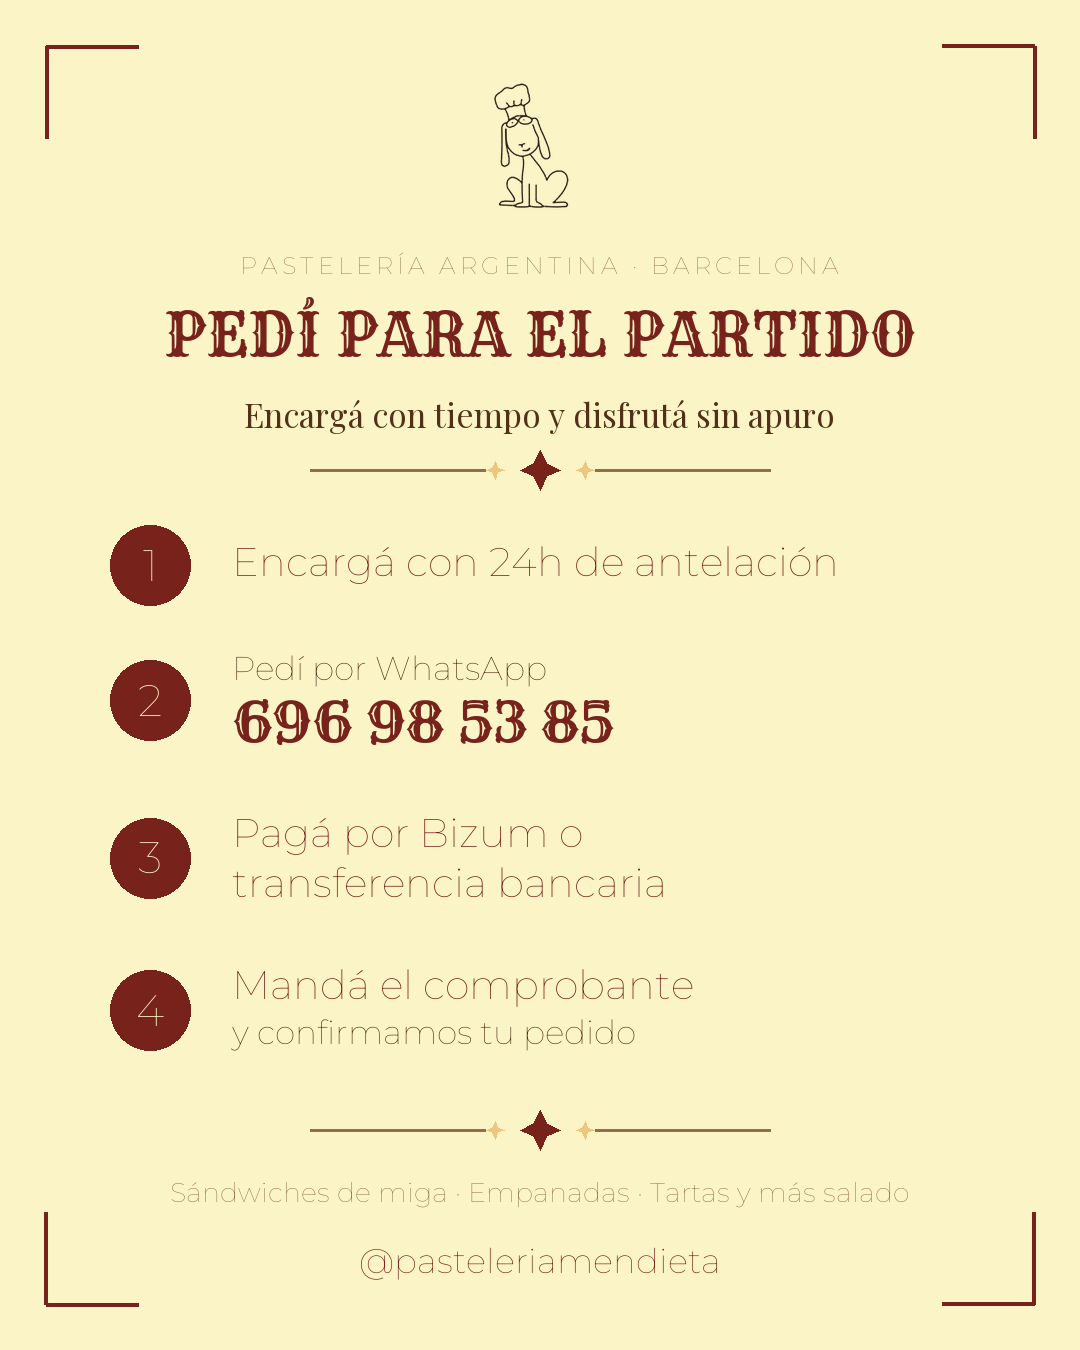
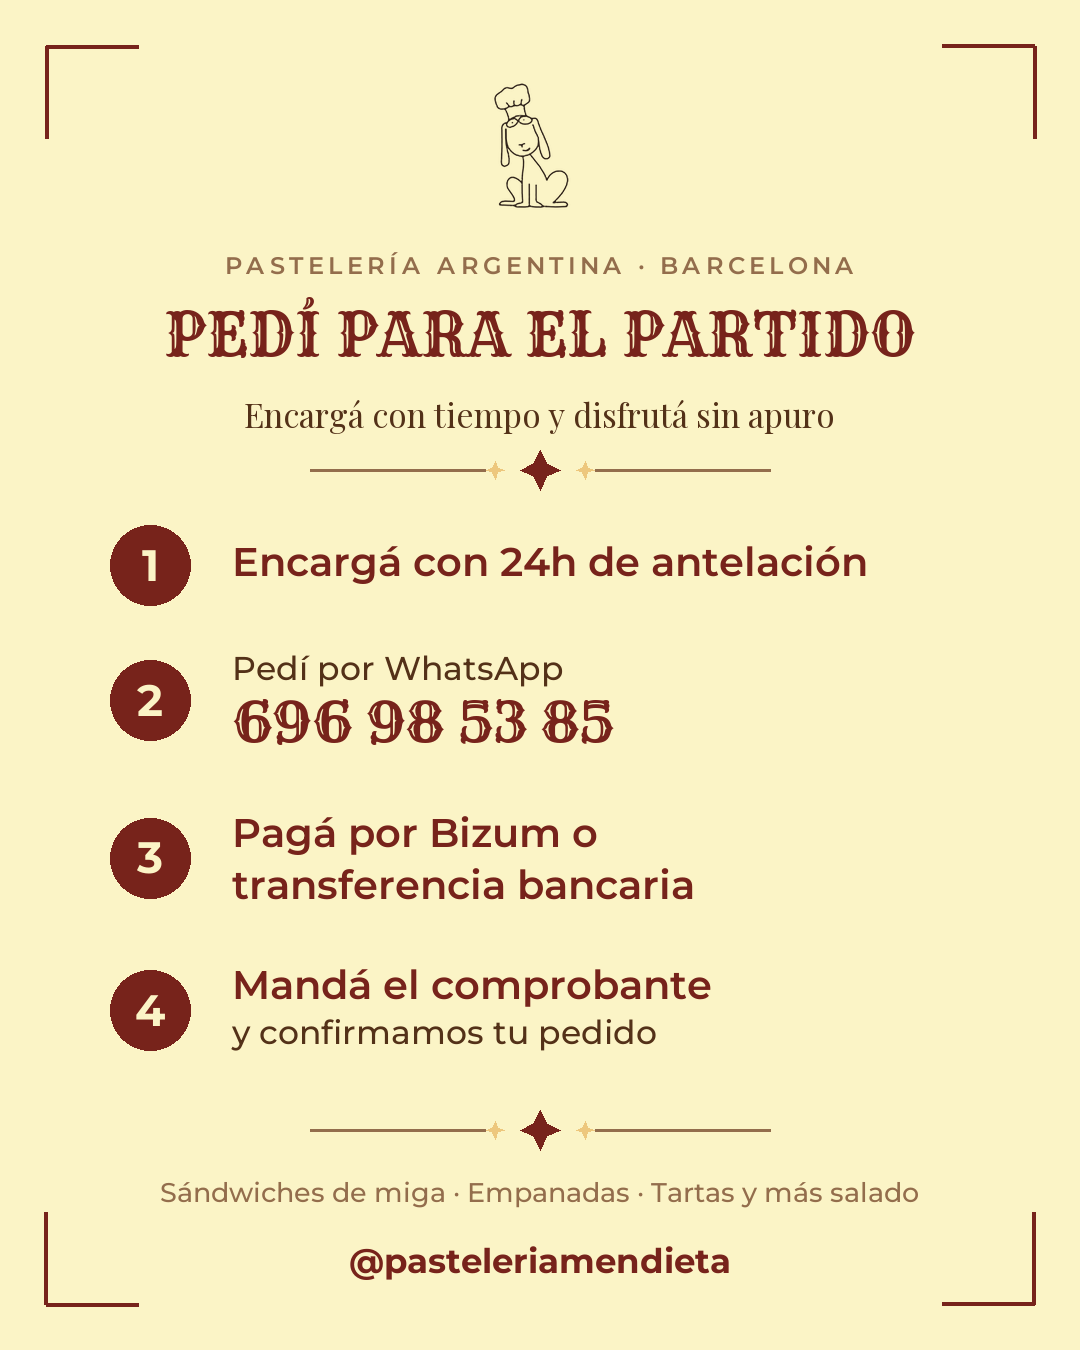
Fix tipografia fina + sube calidad del reel y la foto
CAUSA RAIZ: Montserrat.ttf es fuente VARIABLE y por defecto cargaba en
Thin (100) -> todo el texto salia finisimo e ilegible sobre el video.

FIX:
- helper mont(size, weight) que fuerza el peso real (Bold 700 / ExtraBold
  800) via set_variation_by_axes. Aplicado en reel y en la foto.
- Contorno (stroke) en todo el texto del reel + sombra -> legible sobre
  cualquier foto, no depende del fondo.
- Panel del card mas oscuro (alpha 150->228) para contraste desde el inicio.
- Encode del reel a crf 15 + aq-mode=3 (antes 18) -> mas calidad/menos banding.
- Foto de detalles: pesos correctos (semibold/bold) en pasos, badges y footer.

diff --git a/scripts/make_recap_final.py b/scripts/make_recap_final.py
@@ -45,13 +45,19 @@ def font(p, s):
     return ImageFont.truetype(p, s)
 
 
-def cline(d, y, t, f, fill, sh=True):
-    b = d.textbbox((0, 0), t, font=f)
+def mont(s, w=700):
+    """Montserrat es variable (default Thin 100). Forzamos peso real."""
+    f = ImageFont.truetype(F_MONT, s)
+    f.set_variation_by_axes([w])
+    return f
+
+
+def cline(d, y, t, f, fill, stroke=5, scol=(16, 9, 5)):
+    b = d.textbbox((0, 0), t, font=f, stroke_width=stroke)
     x = (W - (b[2] - b[0])) // 2 - b[0]
-    if sh:
-        for off in ((3, 4), (2, 2)):
-            d.text((x + off[0], y + off[1]), t, font=f, fill=(0, 0, 0, 230))
-    d.text((x, y), t, font=f, fill=fill)
+    # sombra suave + contorno -> legible sobre cualquier foto
+    d.text((x + 2, y + 4), t, font=f, fill=(0, 0, 0, 150), stroke_width=stroke, stroke_fill=(0, 0, 0, 150))
+    d.text((x, y), t, font=f, fill=fill, stroke_width=stroke, stroke_fill=scol)
 
 
 def render_sprite(draw_fn):
@@ -66,38 +72,38 @@ def render_sprite(draw_fn):
 
 
 def block_header(d):
-    cline(d, 372, "·  MENDIETA  ·", font(F_MONT, 34), MOSTAZA)
-    cline(d, 432, "PEDÍ PARA", font(F_RYE, 82), CREMA)
-    cline(d, 540, "EL PARTIDO", font(F_RYE, 82), CREMA)
+    cline(d, 368, "·  MENDIETA  ·", mont(36, 700), MOSTAZA, stroke=3)
+    cline(d, 430, "PEDÍ PARA", font(F_RYE, 84), CREMA, stroke=6)
+    cline(d, 540, "EL PARTIDO", font(F_RYE, 84), CREMA, stroke=6)
 
 
 def block_24h(d):
     t = "Encargá con 24h de antelación"
-    fp = font(F_MONT, 38)
+    fp = mont(40, 700)
     b = d.textbbox((0, 0), t, font=fp); tw = b[2] - b[0]
-    pw = tw + 104; px = (W - pw) // 2; y = 690
-    d.rounded_rectangle([px + 4, y + 5, px + pw + 4, y + 97], radius=47, fill=(0, 0, 0, 120))
-    d.rounded_rectangle([px, y, px + pw, y + 92], radius=47, fill=MOSTAZA)
+    pw = tw + 110; px = (W - pw) // 2; y = 688
+    d.rounded_rectangle([px + 4, y + 5, px + pw + 4, y + 99], radius=49, fill=(0, 0, 0, 130))
+    d.rounded_rectangle([px, y, px + pw, y + 94], radius=49, fill=MOSTAZA)
     d.text(((W - tw) // 2, y + 25), t, font=fp, fill=CACAO)
 
 
 def block_wpp(d):
-    cline(d, 838, "Pedí por WhatsApp", font(F_MONT, 42), CREMA)
-    cline(d, 895, "696 98 53 85", font(F_RYE, 92), CREMA)
+    cline(d, 836, "Pedí por WhatsApp", mont(44, 700), CREMA, stroke=5)
+    cline(d, 894, "696 98 53 85", font(F_RYE, 98), CREMA, stroke=6)
 
 
 def block_pago(d):
-    cline(d, 1105, "Pago por Bizum o", font(F_MONT, 46), CREMA)
-    cline(d, 1163, "transferencia bancaria", font(F_MONT, 46), CREMA)
+    cline(d, 1103, "Pago por Bizum o", mont(48, 700), CREMA, stroke=5)
+    cline(d, 1163, "transferencia bancaria", mont(48, 700), CREMA, stroke=5)
 
 
 def block_comprobante(d):
-    cline(d, 1290, "Confirmamos tu pedido", font(F_PLAY, 46), CREMA)
-    cline(d, 1352, "al recibir el comprobante", font(F_PLAY, 46), CREMA)
+    cline(d, 1288, "Confirmamos tu pedido", mont(44, 800), CREMA, stroke=5)
+    cline(d, 1350, "al recibir el comprobante", mont(40, 700), MOSTAZA, stroke=4)
 
 
 def block_arroba(d):
-    cline(d, 1505, "@pasteleriamendieta", font(F_MONT, 44), MOSTAZA)
+    cline(d, 1505, "@pasteleriamendieta", mont(46, 700), MOSTAZA, stroke=4)
 
 
 def eoc(u):
@@ -122,7 +128,7 @@ def main():
 
     DUR_IN = 0.52
     SCRIM_T0, SCRIM_T1 = 10.2, 15.3
-    SCRIM_A0, SCRIM_A1 = 95, 210
+    SCRIM_A0, SCRIM_A1 = 150, 228
 
     # bloques: t0, draw_fn, efecto, parámetros
     DEFS = [
@@ -194,7 +200,8 @@ def main():
     r = subprocess.run(
         [FF, "-y", "-i", str(SRC), "-framerate", str(FPS), "-i", str(TDIR / "f%04d.png"),
          "-filter_complex", fc, "-map", "[v]", "-an",
-         "-c:v", "libx264", "-preset", "slow", "-crf", "18", str(OUT)],
+         "-c:v", "libx264", "-preset", "slow", "-crf", "15",
+         "-x264-params", "aq-mode=3", str(OUT)],
         capture_output=True, text=True)
     if r.returncode != 0:
         print("FFMPEG ERROR\n", r.stderr[-1800:])

diff --git a/scripts/make_pedidos_detalles.py b/scripts/make_pedidos_detalles.py
@@ -32,6 +32,13 @@ def font(p, s):
     return ImageFont.truetype(p, s)
 
 
+def mont(s, w=600):
+    """Montserrat es variable (default Thin 100). Forzamos peso real."""
+    f = ImageFont.truetype(F_MONT, s)
+    f.set_variation_by_axes([w])
+    return f
+
+
 def tw(d, t, f):
     b = d.textbbox((0, 0), t, font=f)
     return b[2] - b[0], b[3] - b[1], b[1]
@@ -68,7 +75,7 @@ def step(d, cy, num, lines):
     # badge
     bx, r = 150, 40
     d.ellipse([bx - r, cy - r, bx + r, cy + r], fill=BORDO)
-    fn = font(F_MONT, 44)
+    fn = mont(44, 700)
     w, h, oy = tw(d, num, fn)
     d.text((bx - w // 2, cy - h // 2 - oy), num, font=fn, fill=CREMA)
     # text block (left aligned), vertically centered around cy
@@ -100,14 +107,14 @@ def main():
     img.paste(lg, ((W - lg.width) // 2, 66), lg)
 
     # eyebrow + título
-    cline(d, 250, "PASTELERÍA ARGENTINA · BARCELONA", font(F_MONT, 24), CARAMELO, ls=4)
+    cline(d, 250, "PASTELERÍA ARGENTINA · BARCELONA", mont(24, 600), CARAMELO, ls=4)
     cline(d, 296, "PEDÍ PARA EL PARTIDO", font(F_RYE, 60), BORDO)
     cline(d, 392, "Encargá con tiempo y disfrutá sin apuro", font(F_PLAY, 33), CACAO)
 
     divider(d, 470)
 
-    fT = font(F_MONT, 40)      # línea principal de paso
-    fS = font(F_MONT, 33)      # línea secundaria
+    fT = mont(40, 600)      # línea principal de paso
+    fS = mont(33, 500)      # línea secundaria
     step(d, 565, "1", [("Encargá con 24h de antelación", fT, BORDO)])
     step(d, 700, "2", [("Pedí por WhatsApp", fS, CACAO),
                        ("696 98 53 85", font(F_RYE, 56), BORDO)])
@@ -118,8 +125,8 @@ def main():
 
     divider(d, 1130)
     cline(d, 1175, "Sándwiches de miga · Empanadas · Tartas y más salado",
-          font(F_MONT, 27), CARAMELO)
-    cline(d, 1240, "@pasteleriamendieta", font(F_MONT, 34), BORDO)
+          mont(27, 500), CARAMELO)
+    cline(d, 1240, "@pasteleriamendieta", mont(34, 700), BORDO)
 
     OUT.parent.mkdir(parents=True, exist_ok=True)
     img.save(OUT, quality=96)